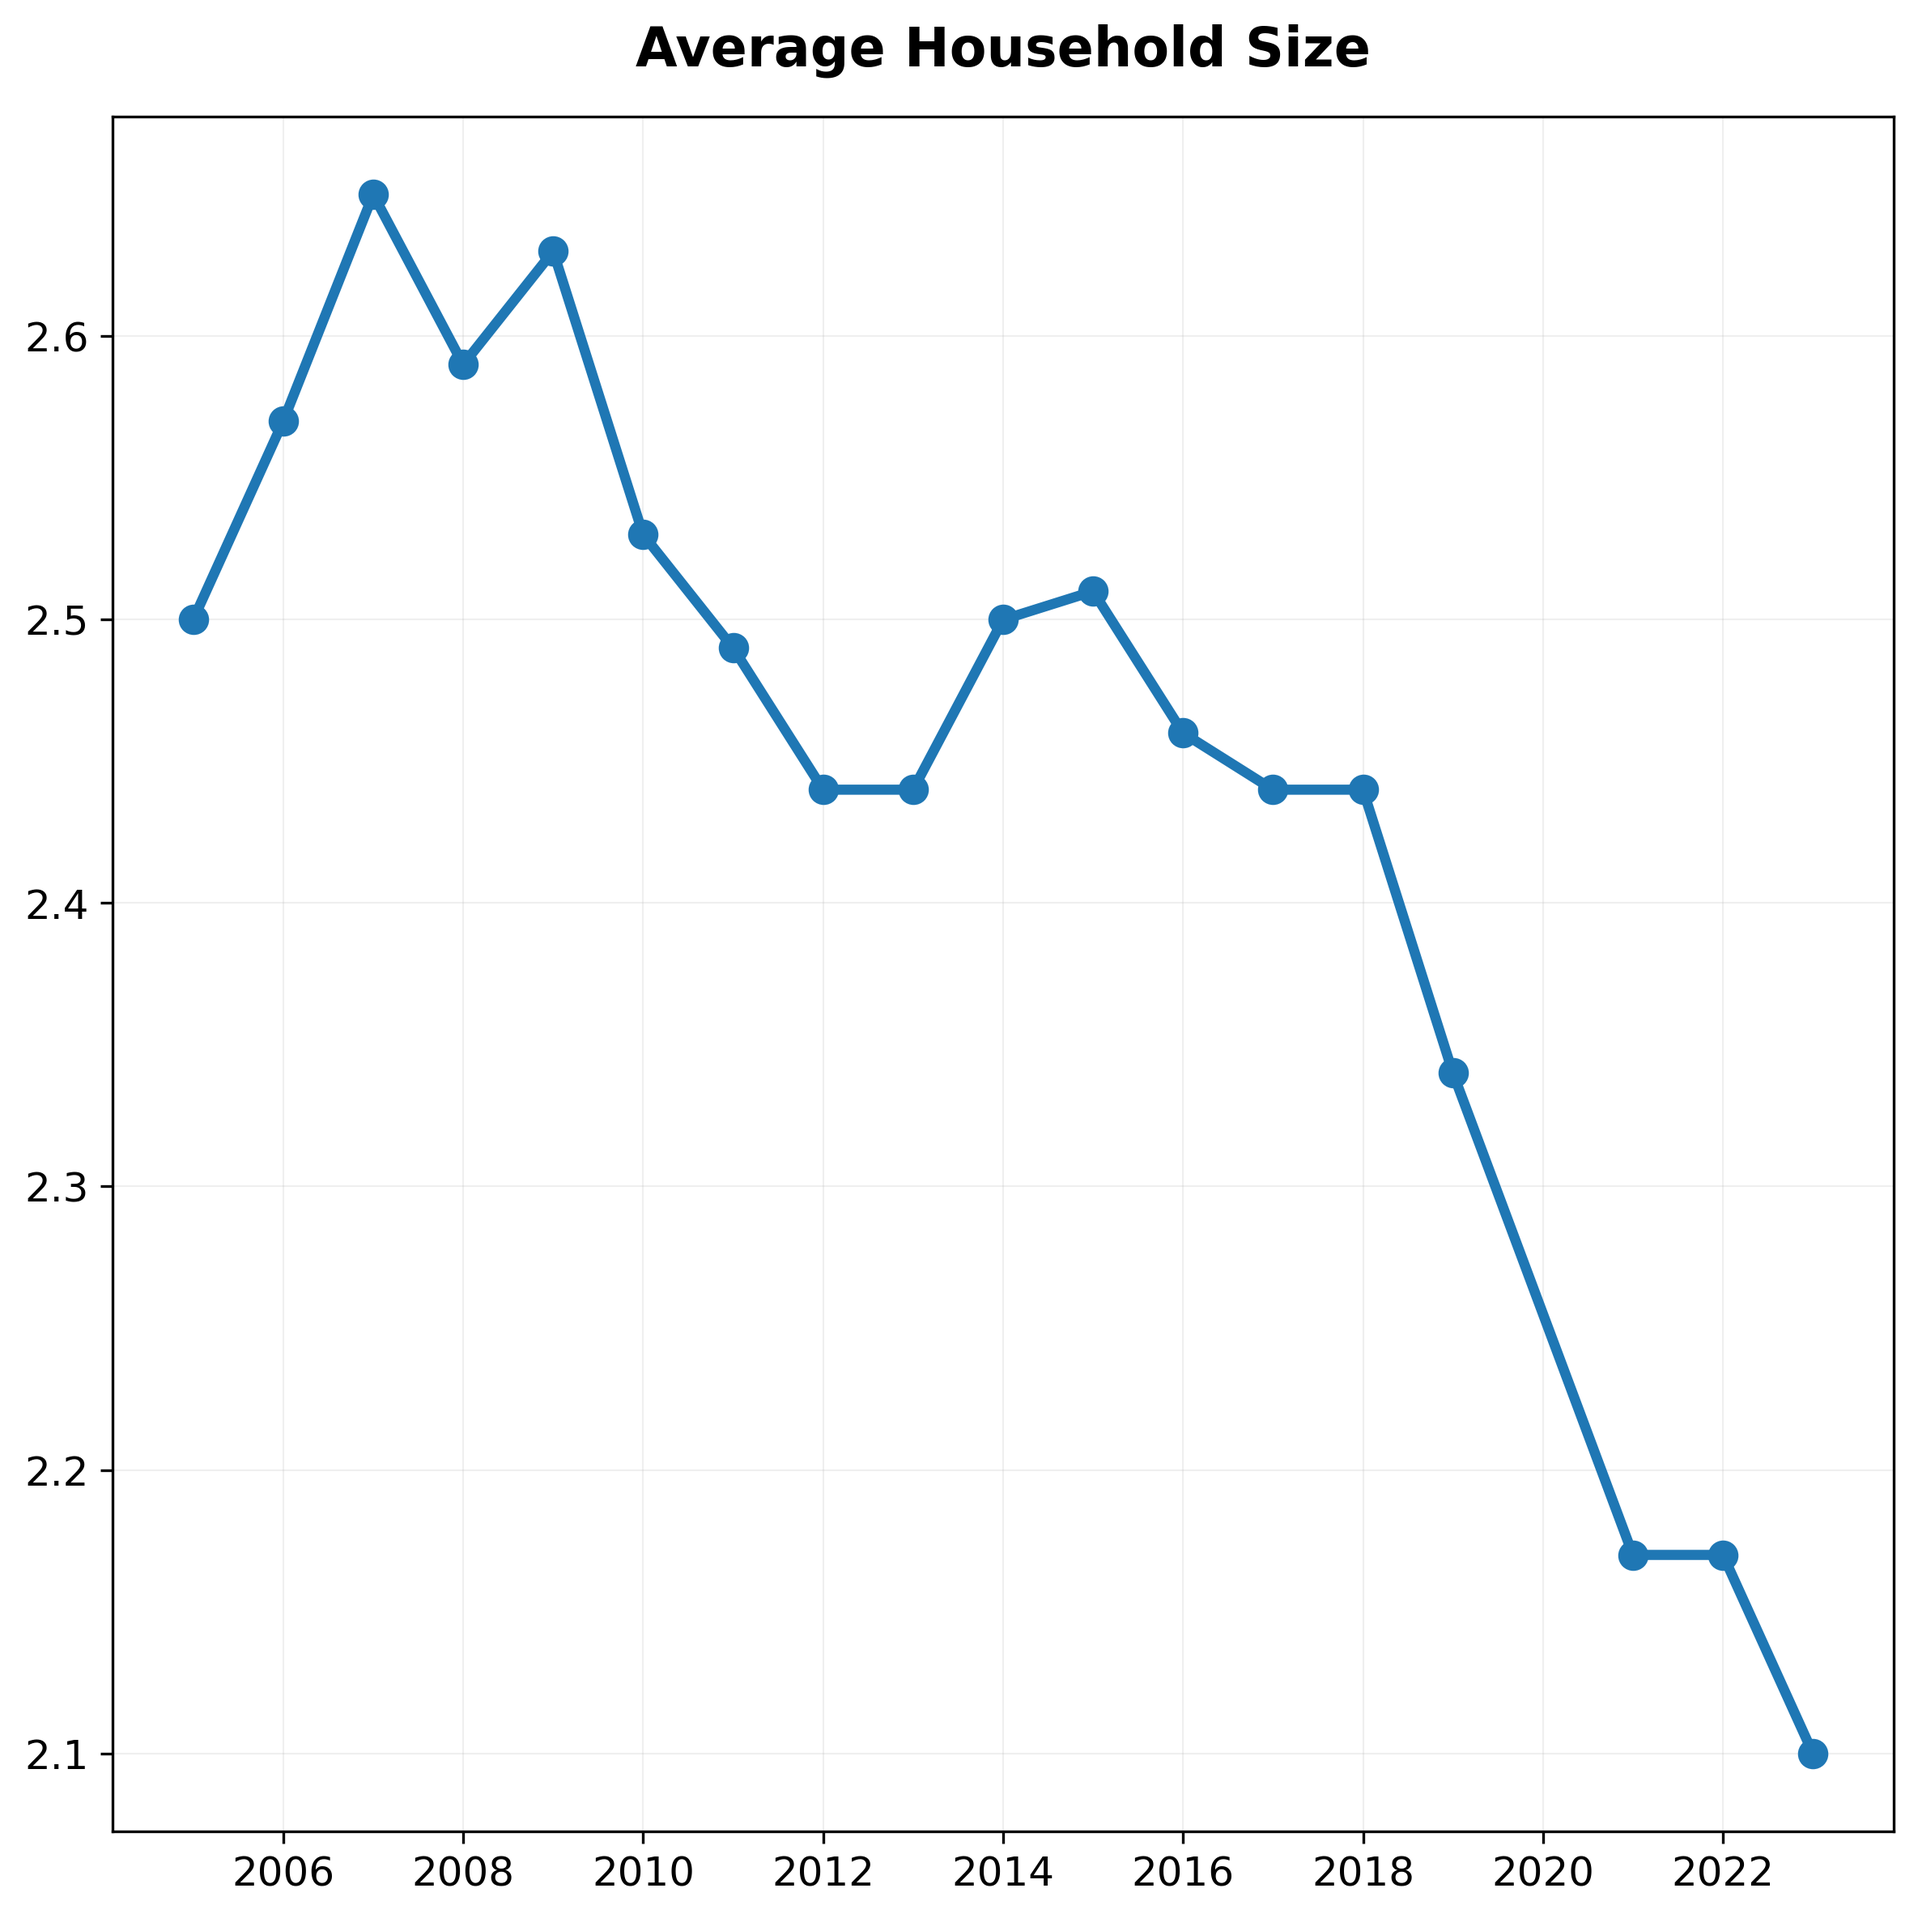
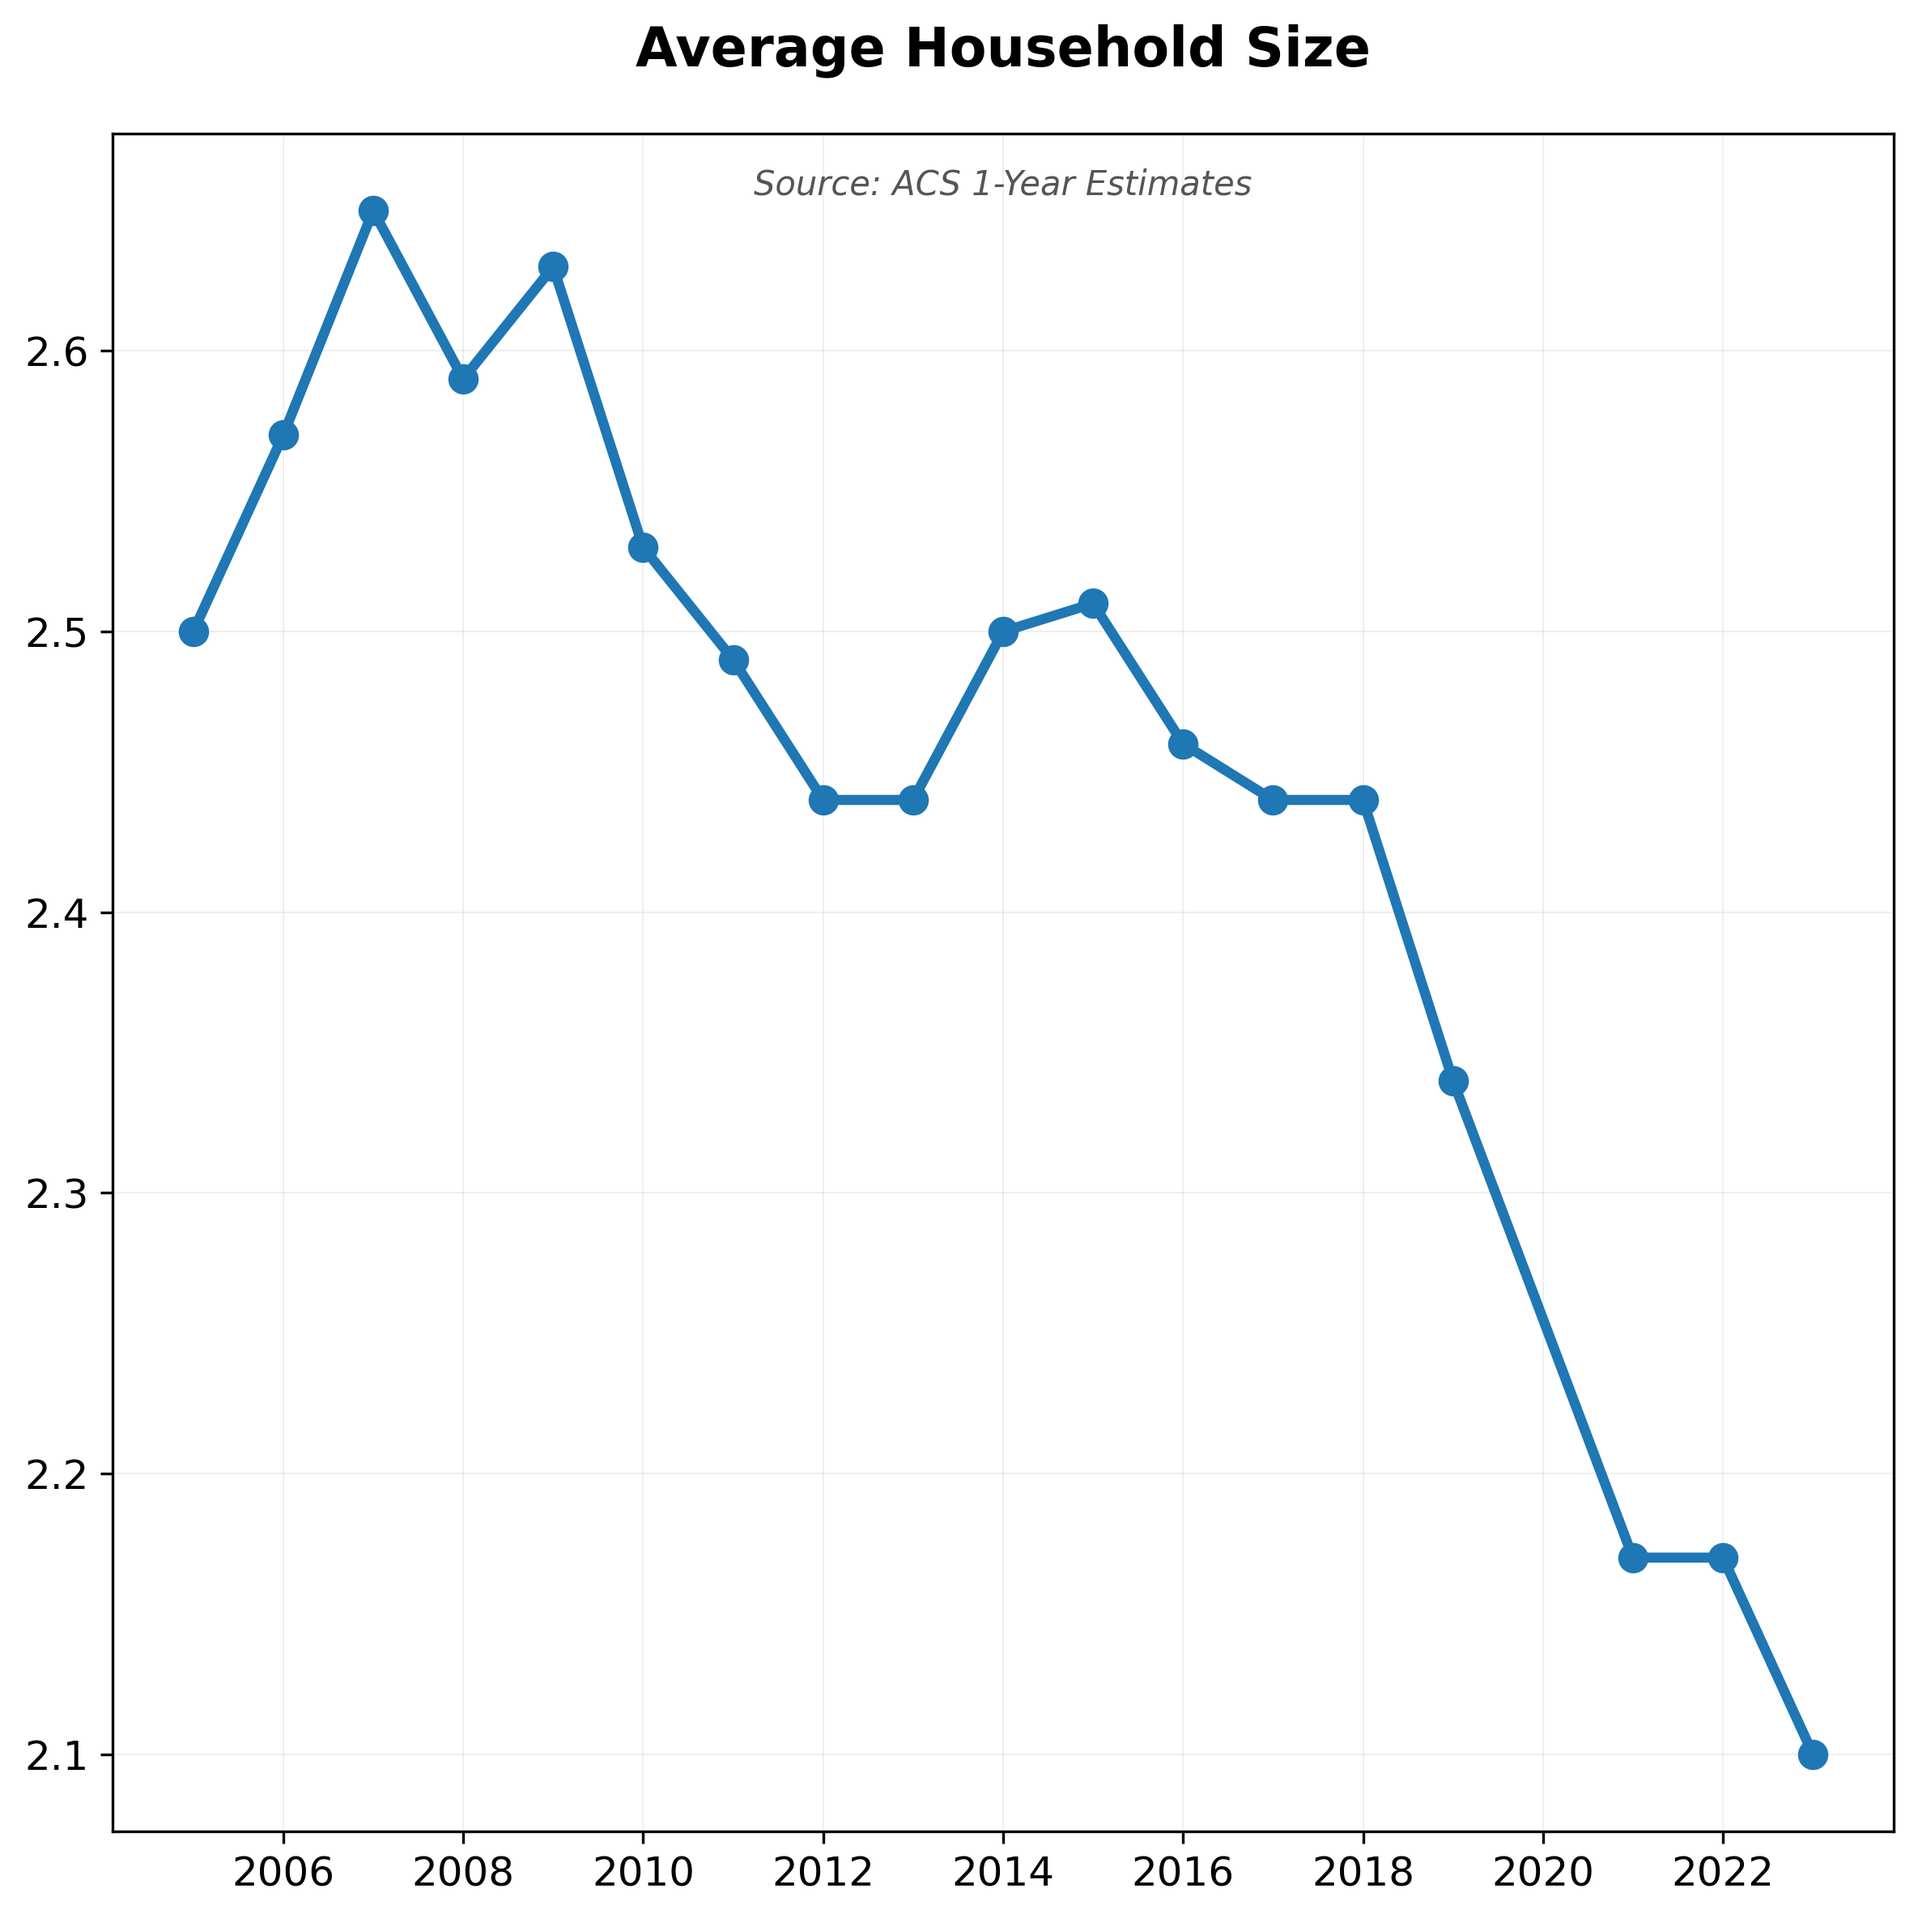
Add data source annotation to all visualizations
- Display source name (e.g., "ACS 1-Year Estimates", "BLS LAUS") below title
- Positioned as italic subtitle in gray for subtle attribution
- Helps users understand data provenance at a glance

diff --git a/scripts/plot_factsheet.py b/scripts/plot_factsheet.py
@@ -33,12 +33,26 @@ for metric_id in metrics:
         color='#1f77b4',
     )
 
-    # Minimal title only (no axis labels)
+    # Title with data source annotation
     plt.title(
         metric_data["indicator_name"].iloc[0],
         fontsize=16,
         fontweight='bold',
-        pad=15,
+        pad=20,
+        loc='center',
+    )
+
+    # Add source annotation just below title
+    plt.text(
+        0.5,
+        0.98,
+        f"Source: {metric_data['source'].iloc[0]}",
+        transform=plt.gca().transAxes,
+        fontsize=10,
+        ha='center',
+        va='top',
+        style='italic',
+        color='#555555',
     )
 
     # Light grid
